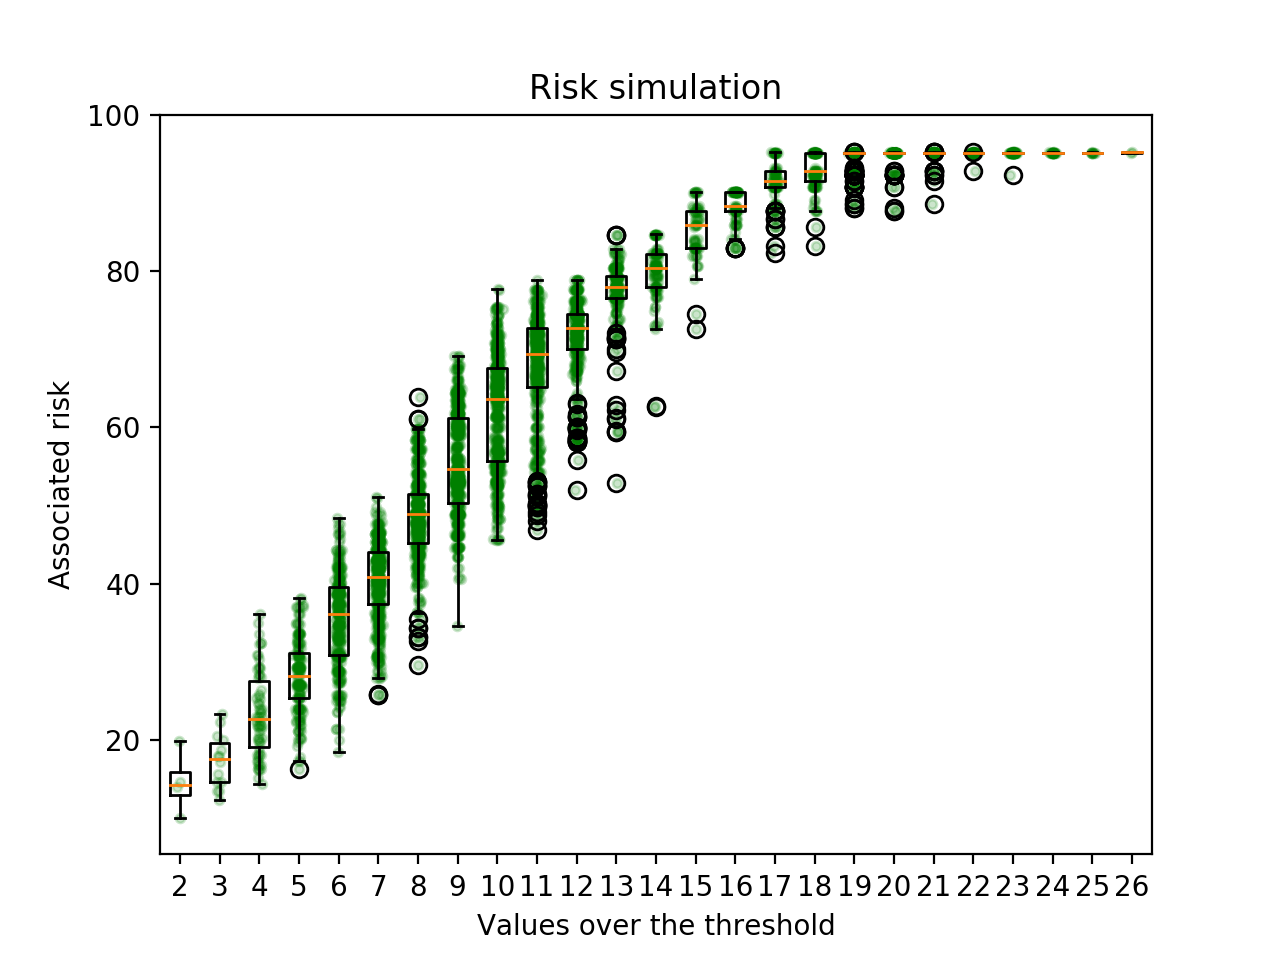
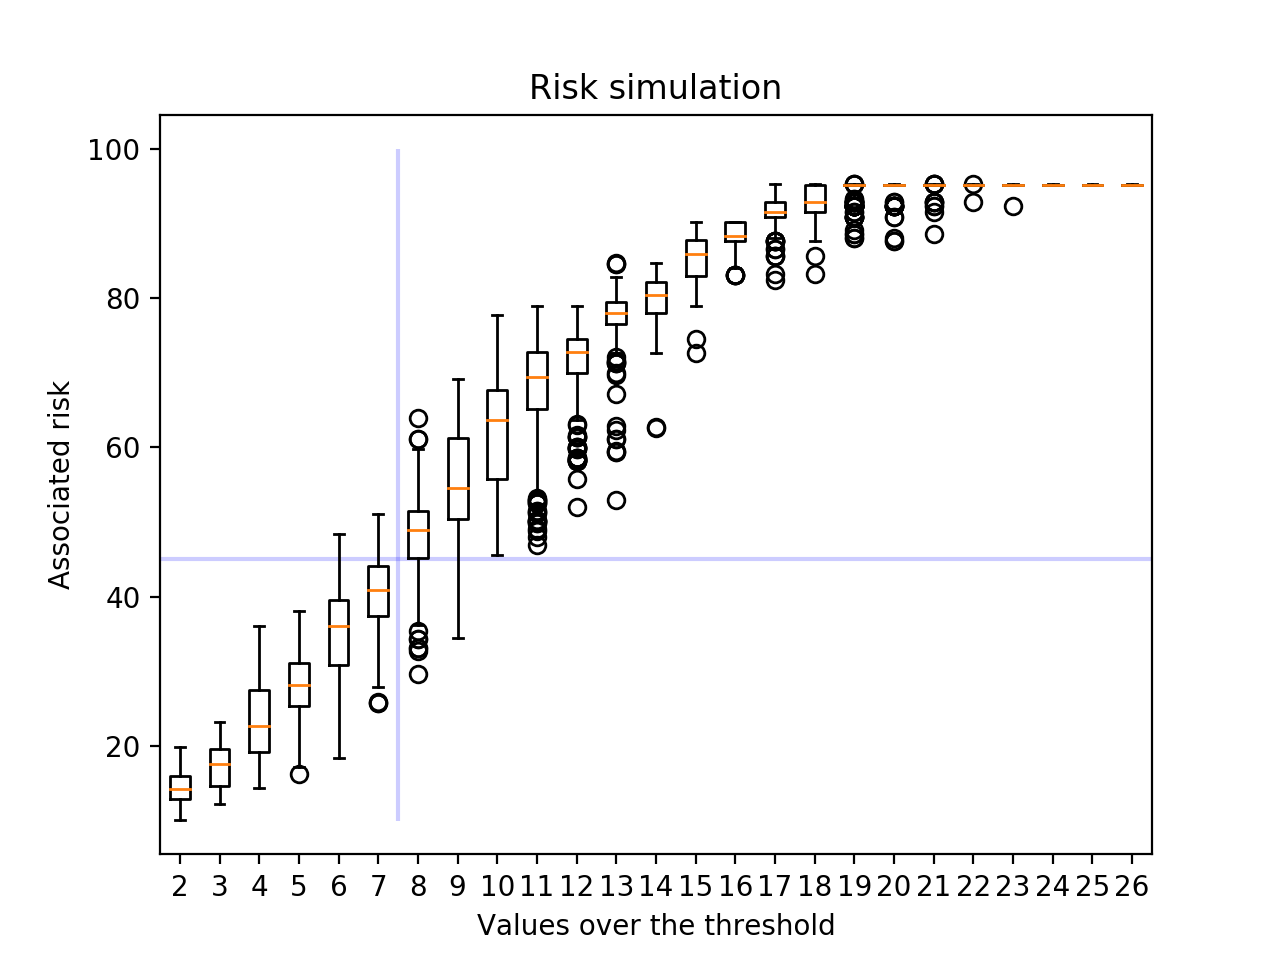
Updated plots

diff --git a/source/plot_results.py b/source/plot_results.py
@@ -19,15 +19,12 @@ def plot_simulation_results(path, plot_p):
         vals.append(subdf[column].tolist())
         xs.append(np.random.normal(i + 1, 0.04, subdf.shape[0]))
     plt.figure('Simulation')
-    # plt.box(False)
     plt.boxplot(vals, labels=names)
-    ngroup = len(vals)
-    clevels = np.linspace(0., 1., ngroup)
-    for x, val, clevel in zip(xs, vals, clevels):
-        plt.scatter(x, val, alpha=0.2, color='g', s=10)
     plt.title('Risk simulation')
     plt.xlabel('Values over the threshold')
     plt.ylabel('Associated risk')
+    plt.hlines(45, 0, 30, alpha=0.2, color='blue')
+    plt.vlines(6.5, 10, 100, alpha=0.2, color='blue')
     plt.savefig(plot_p + 'simulation.jpg', format='png', figsize=(16, 16), dpi=200)
 
 
